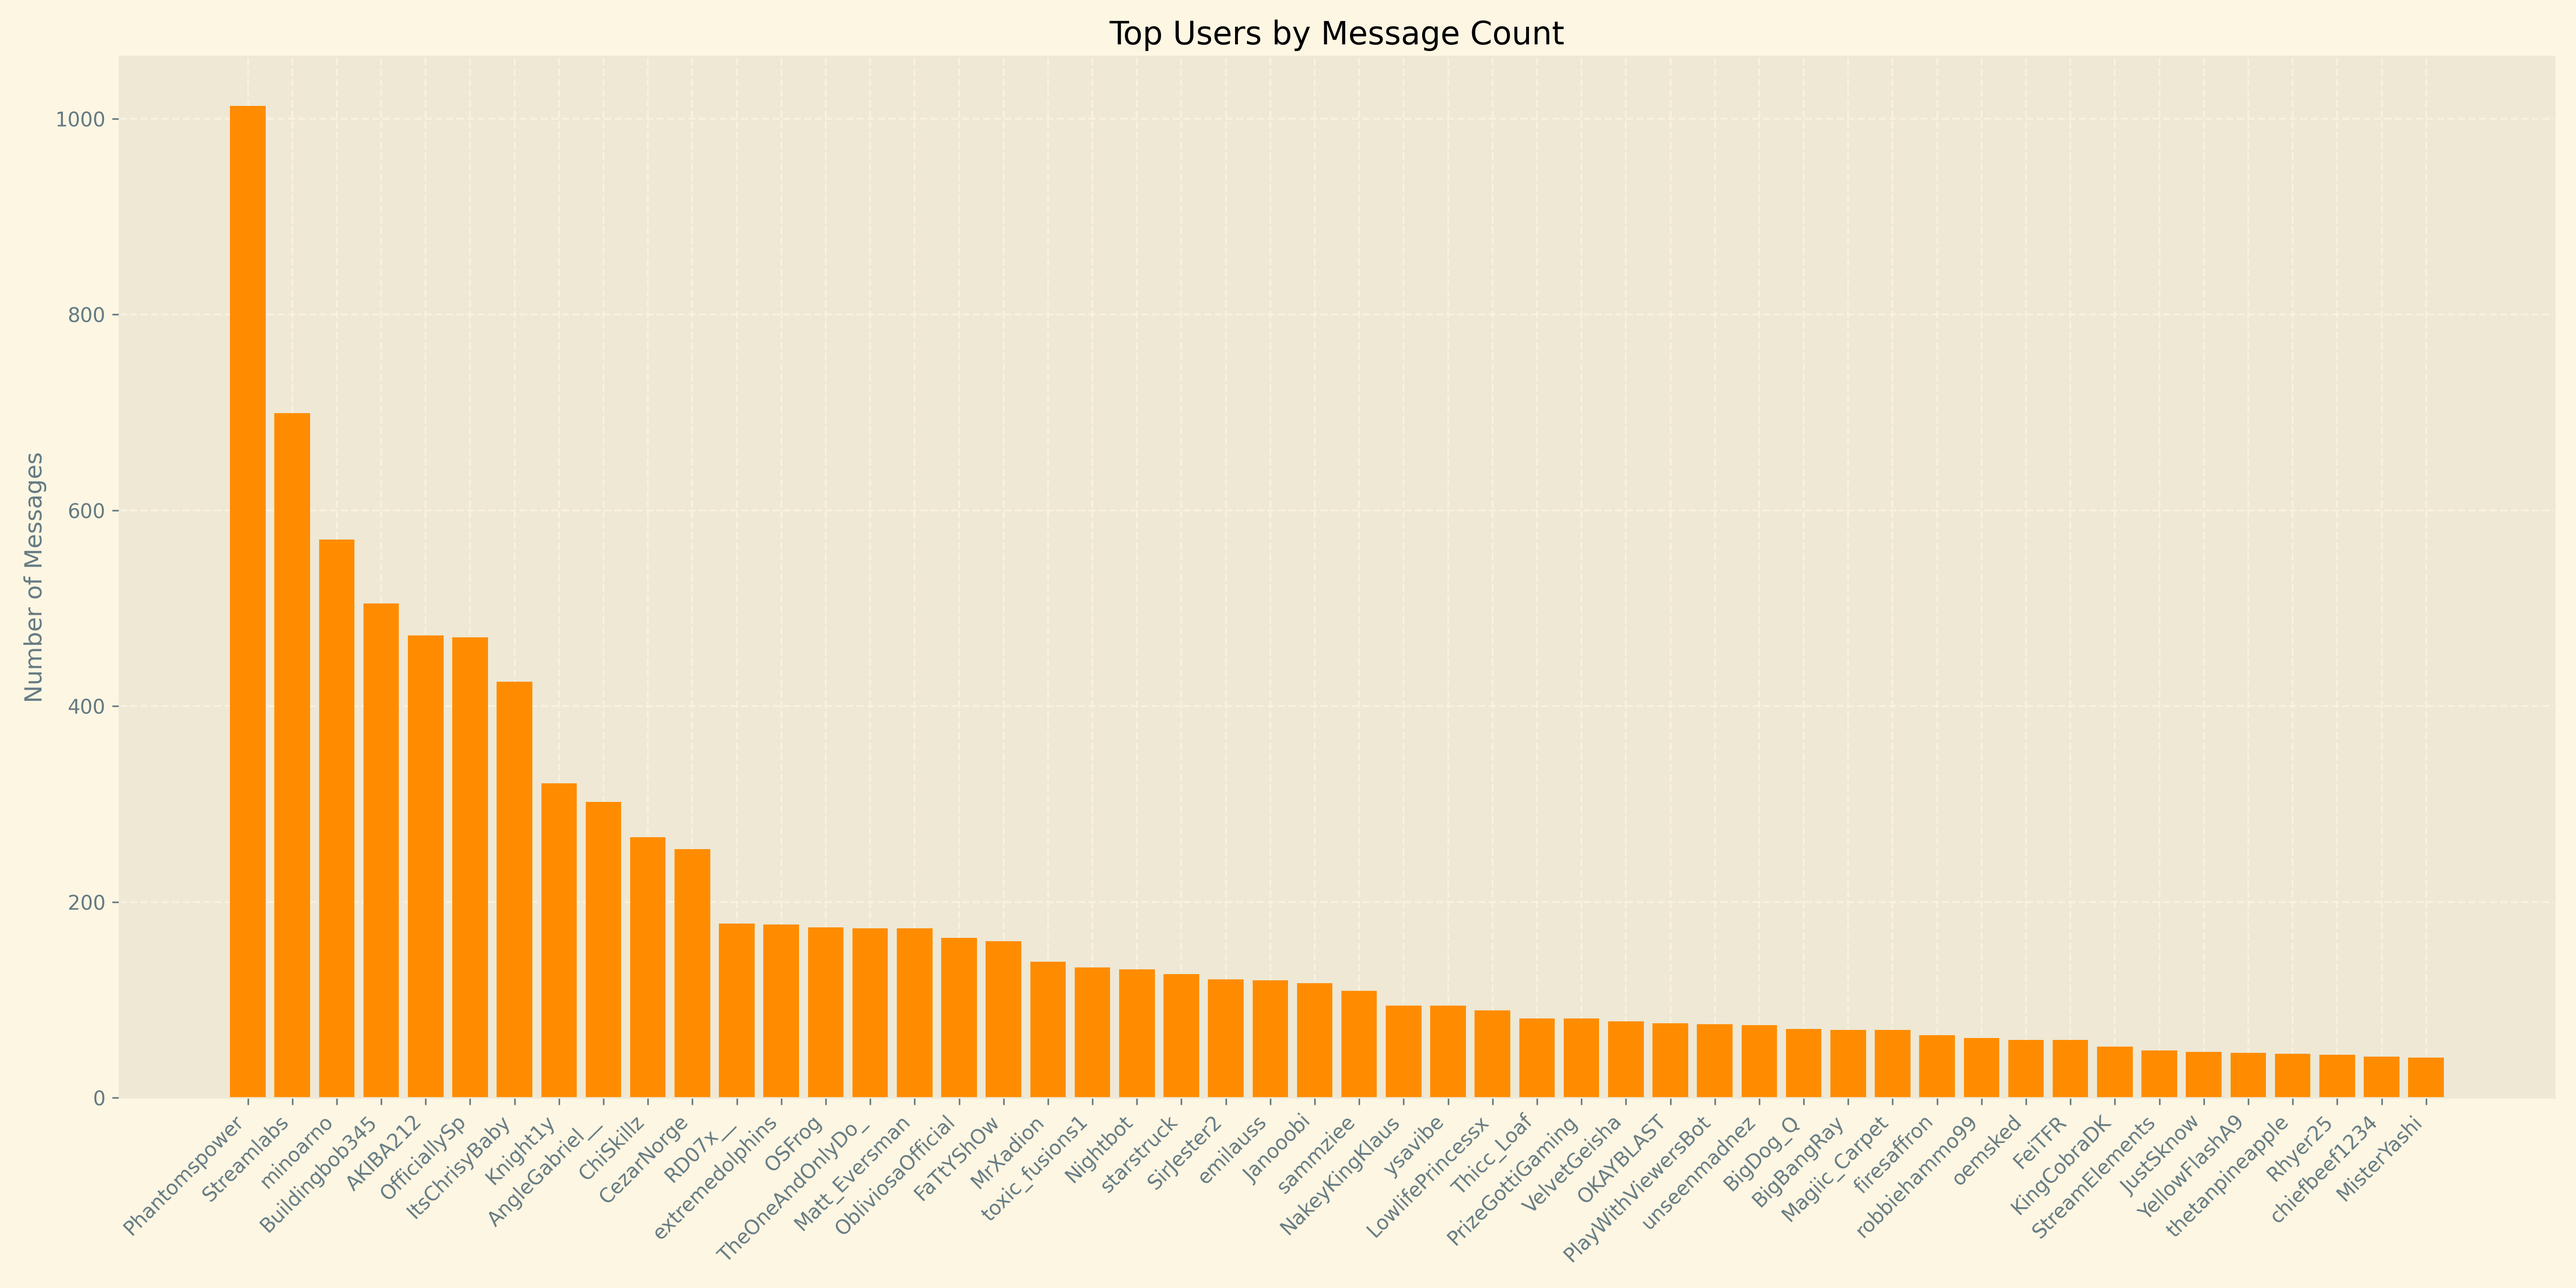
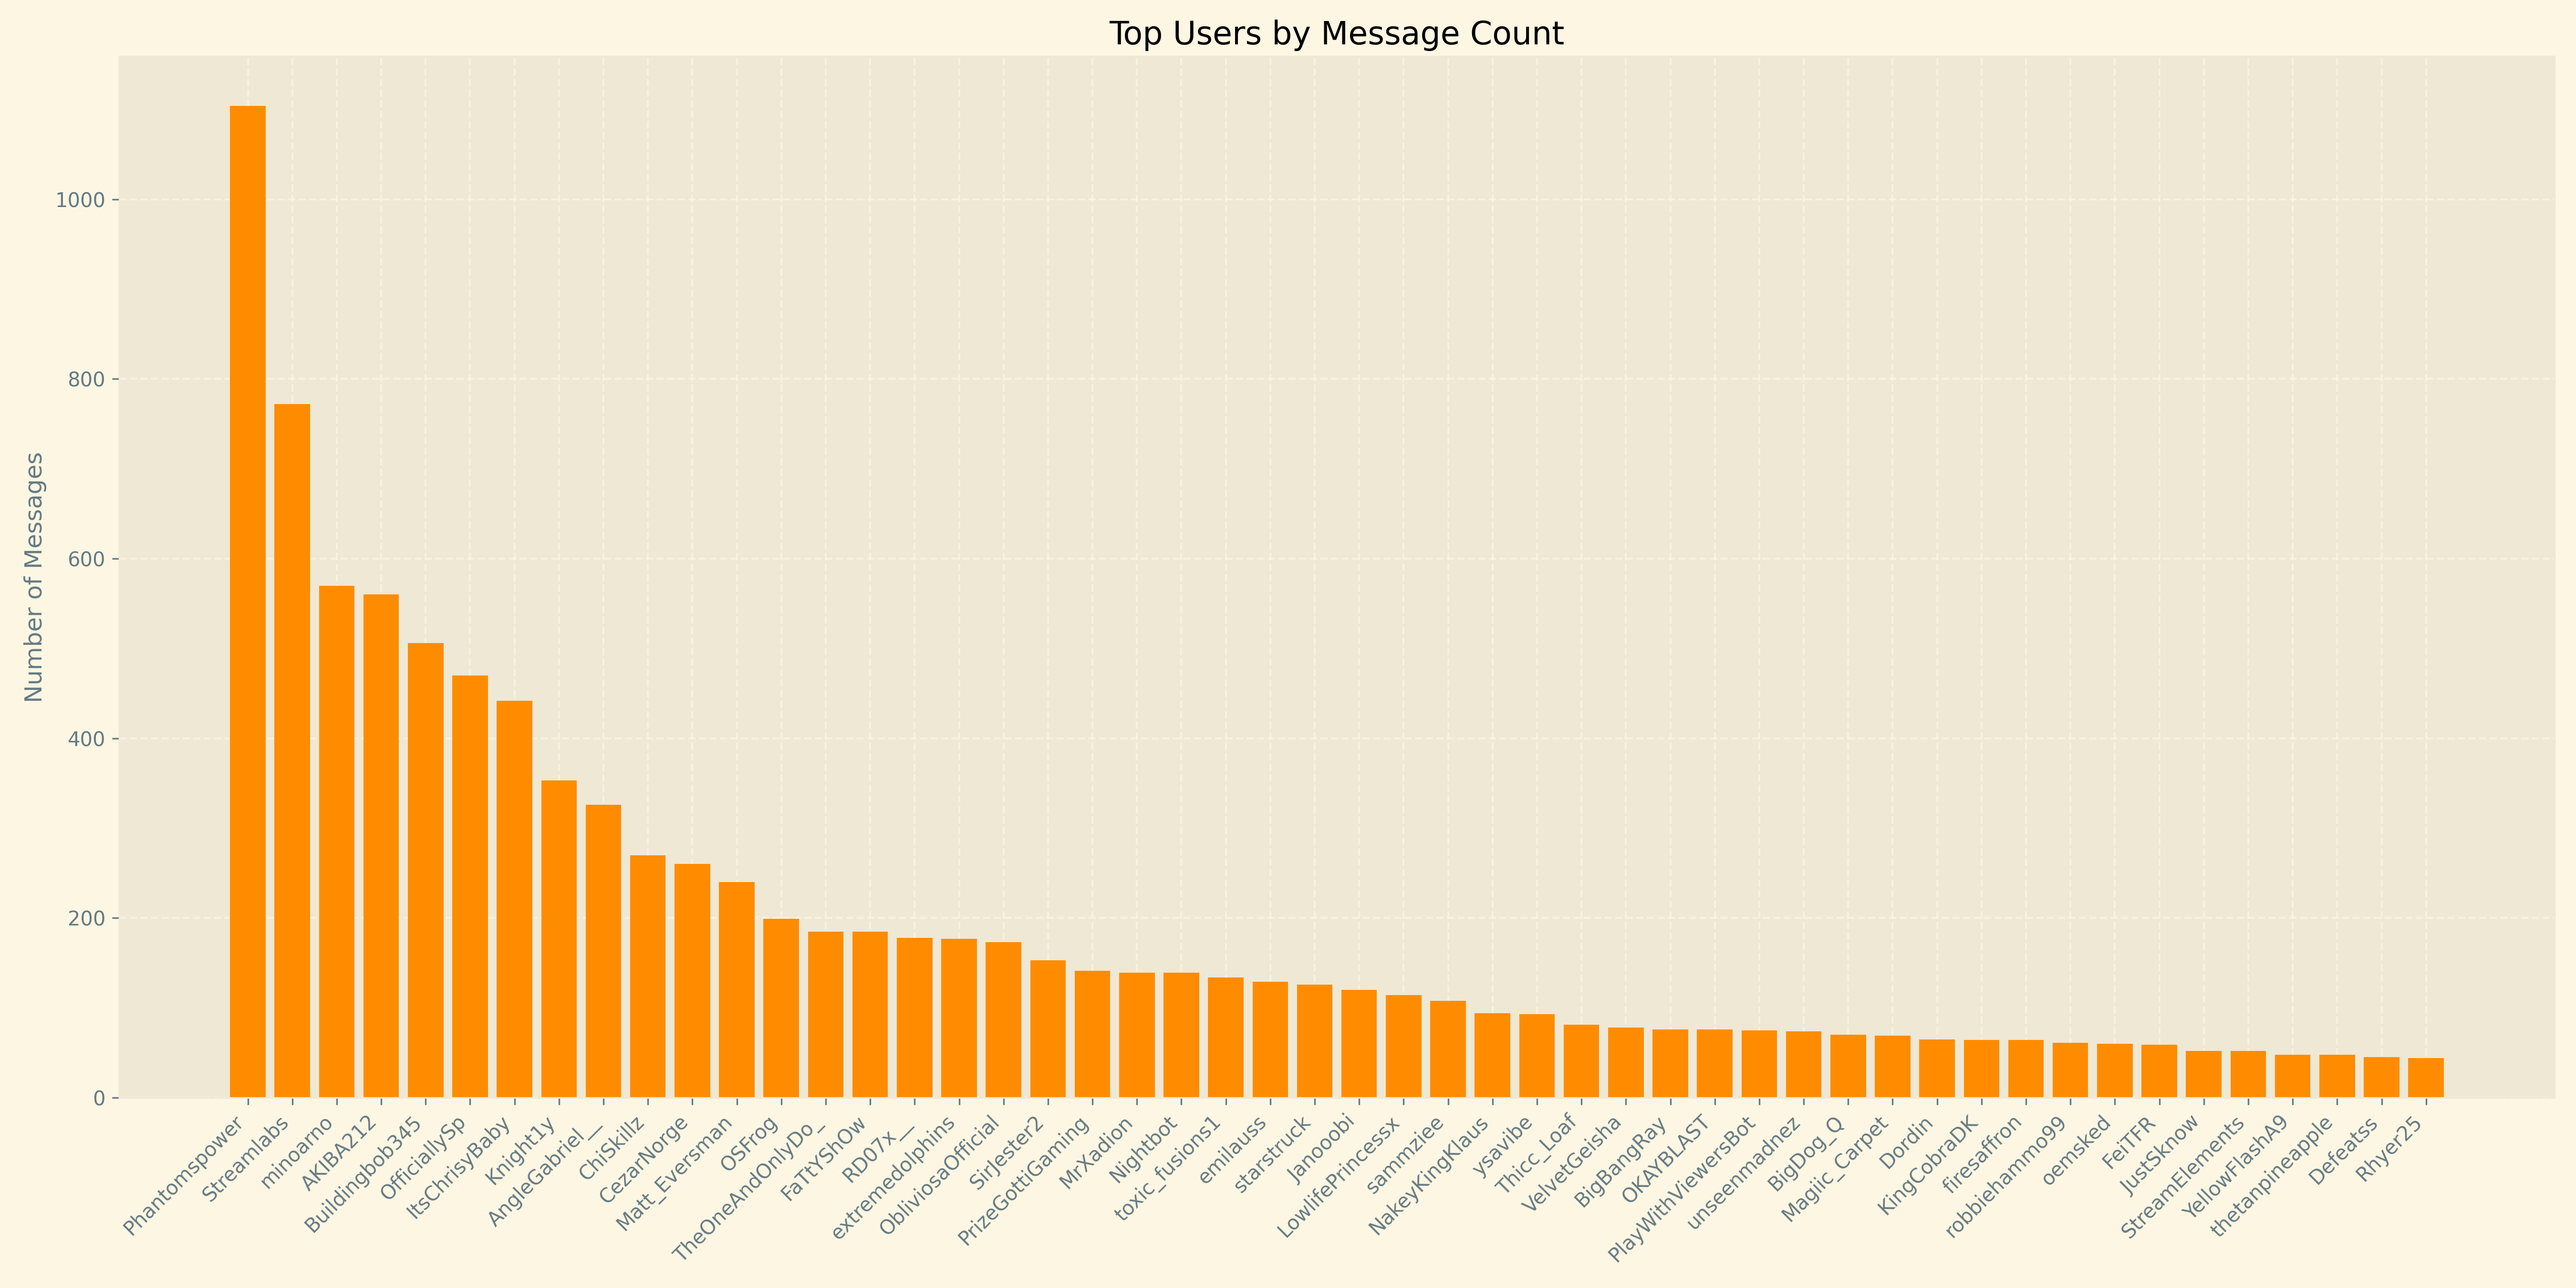
liv did a last minute stream

diff --git a/stats/index.html b/stats/index.html
@@ -18,85 +18,89 @@
 <h2>Detailed chat stats</h2>
     <p>Channel VIP's are marked as <strong>bold</strong>. Mods are <em>italicised</em></p>
 <ol>
-<li>Phantomspower: 1013 messages</li>
-<li>Streamlabs: 699 messages</li>
+<li>Phantomspower: 1104 messages</li>
+<li>Streamlabs: 772 messages</li>
 <li>minoarno: 570 messages</li>
-<li>Buildingbob345: 505 messages</li>
-<li>AKIBA212: 472 messages</li>
+<li>AKIBA212: 560 messages</li>
+<li>Buildingbob345: 506 messages</li>
 <li>OfficiallySp: 470 messages</li>
-<li>ItsChrisyBaby: 425 messages</li>
-<li>Knight1y: 321 messages</li>
-<li>AngleGabriel__: 302 messages</li>
-<li>ChiSkillz: 266 messages</li>
-<li>CezarNorge: 254 messages</li>
+<li>ItsChrisyBaby: 442 messages</li>
+<li>Knight1y: 353 messages</li>
+<li>AngleGabriel__: 326 messages</li>
+<li>ChiSkillz: 270 messages</li>
+<li>CezarNorge: 260 messages</li>
+<li>Matt_Eversman: 240 messages</li>
+<li>OSFrog: 199 messages</li>
+<li>TheOneAndOnlyDo_ and FaTtYShOw: 185 messages each</li>
 <li>RD07x__: 178 messages</li>
 <li>extremedolphins: 177 messages</li>
-<li>OSFrog: 174 messages</li>
-<li>TheOneAndOnlyDo_ and Matt_Eversman: 173 messages each</li>
-<li>ObliviosaOfficial: 163 messages</li>
-<li>FaTtYShOw: 160 messages</li>
-<li>MrXadion: 139 messages</li>
-<li>toxic_fusions1: 133 messages</li>
-<li>Nightbot: 131 messages</li>
+<li>ObliviosaOfficial: 173 messages</li>
+<li>SirJester2: 153 messages</li>
+<li>PrizeGottiGaming: 141 messages</li>
+<li>MrXadion and Nightbot: 139 messages each</li>
+<li>toxic_fusions1: 134 messages</li>
+<li>emilauss: 129 messages</li>
 <li>starstruck: 126 messages</li>
-<li>SirJester2: 121 messages</li>
-<li>emilauss: 120 messages</li>
-<li>Janooobi: 117 messages</li>
-<li>sammziee: 109 messages</li>
-<li>NakeyKingKlaus and ysavibe: 94 messages each</li>
-<li>LowlifePrincessx: 89 messages</li>
-<li>Thicc_Loaf and PrizeGottiGaming: 81 messages each</li>
+<li>Janooobi: 120 messages</li>
+<li>LowlifePrincessx: 114 messages</li>
+<li>sammziee: 108 messages</li>
+<li>NakeyKingKlaus: 94 messages</li>
+<li>ysavibe: 93 messages</li>
+<li>Thicc_Loaf: 81 messages</li>
 <li>VelvetGeisha: 78 messages</li>
-<li>OKAYBLAST: 76 messages</li>
+<li>BigBangRay and OKAYBLAST: 76 messages each</li>
 <li>PlayWithViewersBot: 75 messages</li>
 <li>unseenmadnez: 74 messages</li>
 <li>BigDog_Q: 70 messages</li>
-<li>BigBangRay and Magiic_Carpet: 69 messages each</li>
-<li>firesaffron: 64 messages</li>
+<li>Magiic_Carpet: 69 messages</li>
+<li>Dordin: 65 messages</li>
+<li>KingCobraDK and firesaffron: 64 messages each</li>
 <li>robbiehammo99: 61 messages</li>
-<li>oemsked and FeiTFR: 59 messages each</li>
-<li>KingCobraDK: 52 messages</li>
-<li>StreamElements: 48 messages</li>
-<li>JustSknow: 47 messages</li>
-<li>YellowFlashA9: 46 messages</li>
-<li>thetanpineapple: 45 messages</li>
+<li>oemsked: 60 messages</li>
+<li>FeiTFR: 59 messages</li>
+<li>JustSknow and StreamElements: 52 messages each</li>
+<li>YellowFlashA9 and thetanpineapple: 48 messages each</li>
+<li>Defeatss: 45 messages</li>
 <li>Rhyer25: 44 messages</li>
-<li>chiefbeef1234: 42 messages</li>
-<li>MisterYashi, DrDerpalot and sergmist97: 41 messages each</li>
+<li>chiefbeef1234: 43 messages</li>
+<li>DrDerpalot, MisterYashi and sergmist97: 41 messages each</li>
+<li>ayvottv: 39 messages</li>
 <li>slawtergg: 36 messages</li>
-<li>PandiPeruvi, edu2002pa and JoshuaMbh: 35 messages each</li>
+<li>PandiPeruvi, JoshuaMbh and edu2002pa: 35 messages each</li>
+<li>Omarpapajo: 34 messages</li>
 <li>andinis: 33 messages</li>
-<li>apexblimund and Omarpapajo: 31 messages each</li>
+<li>apexblimund: 31 messages</li>
+<li>MoonlitAly: 30 messages</li>
 <li>Djbeight: 29 messages</li>
 <li>SCT_samurai: 28 messages</li>
 <li>MaicoMolo: 26 messages</li>
-<li>BeholdBrooke, MeshThaa and ayvottv: 25 messages each</li>
-<li>Blackl0ud, Dordin and mettee_: 24 messages each</li>
-<li>monitor4821: 23 messages</li>
+<li>MeshThaa, BeholdBrooke and trixie9th: 25 messages each</li>
+<li>mettee_, fairypuella and Blackl0ud: 24 messages each</li>
+<li>Seycross and monitor4821: 23 messages each</li>
 <li>xxpoohdaddyxx: 22 messages</li>
 <li>bigpapimonsterdragon: 21 messages</li>
 <li>ShhSierra: 20 messages</li>
-<li>jordanslither: 19 messages</li>
+<li>WilliamPoggers and jordanslither: 19 messages each</li>
 <li>riseshin3: 18 messages</li>
-<li>BigTiddyGoff_, Flash_INK, zoro19856442 and LowlifePrincex: 17 messages each</li>
-<li>alericocoooo, Genghiss and EnigmaXVI: 16 messages each</li>
-<li>TheRealMrHaXx, Xylais and cgabrielthefirst: 15 messages each</li>
-<li>sentimentaltrooper, Seycross, aclcgrimreever, LionelNessie_ and metajezza: 14 messages each</li>
-<li>trixie9th and Yorubiya: 13 messages each</li>
-<li>MoonlitAly, NoVaCk_3893, sunflowersabyss, TheJukus, Plamenov, midlane_enthusiast and ograven1: 12 messages each</li>
-<li>borednbothered, maginkaa, demacia14, IcyUK, partydogftw and trixiethealien: 11 messages each</li>
-<li>STARJEFFREY64, Bianclana, Tjorbjorn and DJFrankieB: 10 messages each</li>
-<li>alecspursa, CosmicTurtle2788 and scarlettnguyen: 9 messages each</li>
-<li>kp923589, firefistgrogu, BigOleRock, kozyoffline, HAZE21FY, dropkickedJake, lingleebao and mikeyuchiha: 8 messages each</li>
-<li>xKanbar, Habutoo, crovvttv, natsusamo, rxempire and Raidek: 7 messages each</li>
-<li>Teentitans333, murderbirdexpress, solkian, BombasticSly, jmjanu, ChefCurryGames, AttemptHouse, SonglistBot, girldon and JoesLWorld: 6 messages each</li>
-<li>coupleofstickers, destroyerjaan, costi555 and Katana1988: 5 messages each</li>
-<li>KI113RWOLF117, theclawsaremine, ItsCynda, justloliehh, TheSweetSniper, Mosrix, dali_khe, Blurrp, saiefe, mrs_cattipiller, deadkid54 and yangsunny: 4 messages each</li>
-<li>shushan_tank, ChonkyChocobo, harishm06, Irratix, darkkyber1, YaDudeBryan, junkmemes, burtly, WD40PyRO, MagnoliaBobatry, imperialninja, kount_kai, ShauncastGaming, transloucent_, WacKGLooNy, withinaccent and AnAnonymousGifter: 3 messages each</li>
-<li>itsbriannalawnya, ToxicSecretS, ArcusFata, HappyAxedents, ATEL0PHOBlA, xxblueshellxx, Neidorii, TheUncommonLoon, mosesconspiracy, cezk0s, ZsoltiiB, Gorran_, AYoACrow, Bluejay_Trax, god_sword_dung, JDGhosted and golam159: 2 messages each</li>
-<li>foREVerA7X87, fallendriver, BigTexYeeYeeHenry, FrankDenif, fbdbjrhrhbtjjdjjj, Heat_XD, RisingSalt, thatguyyung, designerskyline_, MommaMouseChaos, TheCozmicOne, yetti_sn, Hristo4Life, Ronsou, xx_geralt_xx, RPFletch, gitmolol, oreo_1129, Swim__Shady_, jassmintt, Wander_VT, unluckyskeleton, cloudmind_helpingway, SleepySeal_, canadian_tom123, friendlypersonnotbooter3, PatchedProphet, yoriekasan, basicryanx, mikey98123, alexander_69169, phoso_fish, Soleater_, makaveli1022, 繁星若塵, TheRealVilain, ojkers3, WhyHer, Moshinery, WordOfJesus, imadiaperedpanda, nutartine, 4nthemz, Sjdjhdwker, nabadazz, Denjiiio, Lavs_Died, gerwini, nestor_lol7, savaarus, ramyv9, denkata18, CruceA, SoundAlerts and Memlil0: 1 messages each</li>
+<li>zoro19856442, Flash_INK, BigTiddyGoff_ and LowlifePrincex: 17 messages each</li>
+<li>Genghiss, EnigmaXVI and alericocoooo: 16 messages each</li>
+<li>cgabrielthefirst, aclcgrimreever, TheRealMrHaXx, Xylais and borednbothered: 15 messages each</li>
+<li>sentimentaltrooper, metajezza and LionelNessie_: 14 messages each</li>
+<li>Yorubiya and Plamenov: 13 messages each</li>
+<li>sunflowersabyss, TheJukus, NoVaCk_3893, ograven1 and midlane_enthusiast: 12 messages each</li>
+<li>partydogftw, IcyUK, DJFrankieB, trixiethealien, demacia14 and maginkaa: 11 messages each</li>
+<li>firefistgrogu, STARJEFFREY64, Bianclana and Tjorbjorn: 10 messages each</li>
+<li>alecspursa, CosmicTurtle2788, scarlettnguyen and justice2k1_: 9 messages each</li>
+<li>mikeyuchiha, kp923589, Habutoo, HAZE21FY, BigOleRock, kozyoffline, lingleebao and dropkickedJake: 8 messages each</li>
+<li>crovvttv, Raidek, god_sword_dung, shout_max, xKanbar, rxempire and natsusamo: 7 messages each</li>
+<li>ChefCurryGames, murderbirdexpress, girldon, SonglistBot, AttemptHouse, JoesLWorld, solkian, Teentitans333, BombasticSly, icecoldk94 and jmjanu: 6 messages each</li>
+<li>costi555, imperialninja, deadkid54, destroyerjaan, Katana1988 and coupleofstickers: 5 messages each</li>
+<li>dali_khe, Mosrix, justloliehh, yangsunny, TheSweetSniper, KI113RWOLF117, ItsCynda, saiefe, theclawsaremine, mrs_cattipiller and Blurrp: 4 messages each</li>
+<li>junkmemes, darkkyber1, Irratix, ChonkyChocobo, burtly, kount_kai, shushan_tank, Mana248, harishm06, YaDudeBryan, withinaccent, S4mantaSuaAnta, WD40PyRO, ShauncastGaming, AnAnonymousGifter, transloucent_, MagnoliaBobatry and WacKGLooNy: 3 messages each</li>
+<li>danieljonker911, xxblueshellxx, itsbriannalawnya, golam159, ArcusFata, ATEL0PHOBlA, AYoACrow, JDGhosted, TheUncommonLoon, mosesconspiracy, cezk0s, ZsoltiiB, ToxicSecretS, Gorran_, Neidorii, HappyAxedents, amazing_fansss_, Bluejay_Trax and VoyagerDecoded: 2 messages each</li>
+<li>PatchedProphet, xx_geralt_xx, friendlypersonnotbooter3, 繁星若塵, nabadazz, Heat_XD, RisingSalt, thatguyyung, designerskyline_, MommaMouseChaos, FrankDenif, yetti_sn, ramyv9, yoriekasan, Memlil0, Ronsou, WhyHer, gitmolol, fbdbjrhrhbtjjdjjj, 4nthemz, jassmintt, Wander_VT, unluckyskeleton, cloudmind_helpingway, SleepySeal_, imadiaperedpanda, denkata18, Hristo4Life, phoso_fish, nestor_lol7, mama_mobi, foREVerA7X87, CruceA, fallendriver, alexander_69169, BigTexYeeYeeHenry, Swim__Shady_, makaveli1022, Sjdjhdwker, RPFletch, TheRealVilain, ojkers3, WordOfJesus, Moshinery, TheCozmicOne, mikey98123, oreo_1129, SoundAlerts, canadian_tom123, Denjiiio, Lavs_Died, gerwini, savaarus, Soleater_, basicryanx, nutartine and Purrls: 1 messages each</li>
 </ol>
-		<h4>10568 Total messages Logged from 240 Chat Participants over 9 Streams</h4>
+		<h4>11453 Total messages Logged from 253 Chat Participants over 10 Streams</h4>
     <footer>
         <p>Watch <a href="https://www.twitch.tv/obliviosaofficial">Obliviosa on Twitch</a> or <a href="https://www.instagram.com/obliviosaofficial/">follow her on Instagram</a>.</p>
         <p>Statpage made with ❤ by OfficiallySp (Shane Pepperell © 2024)</p>
